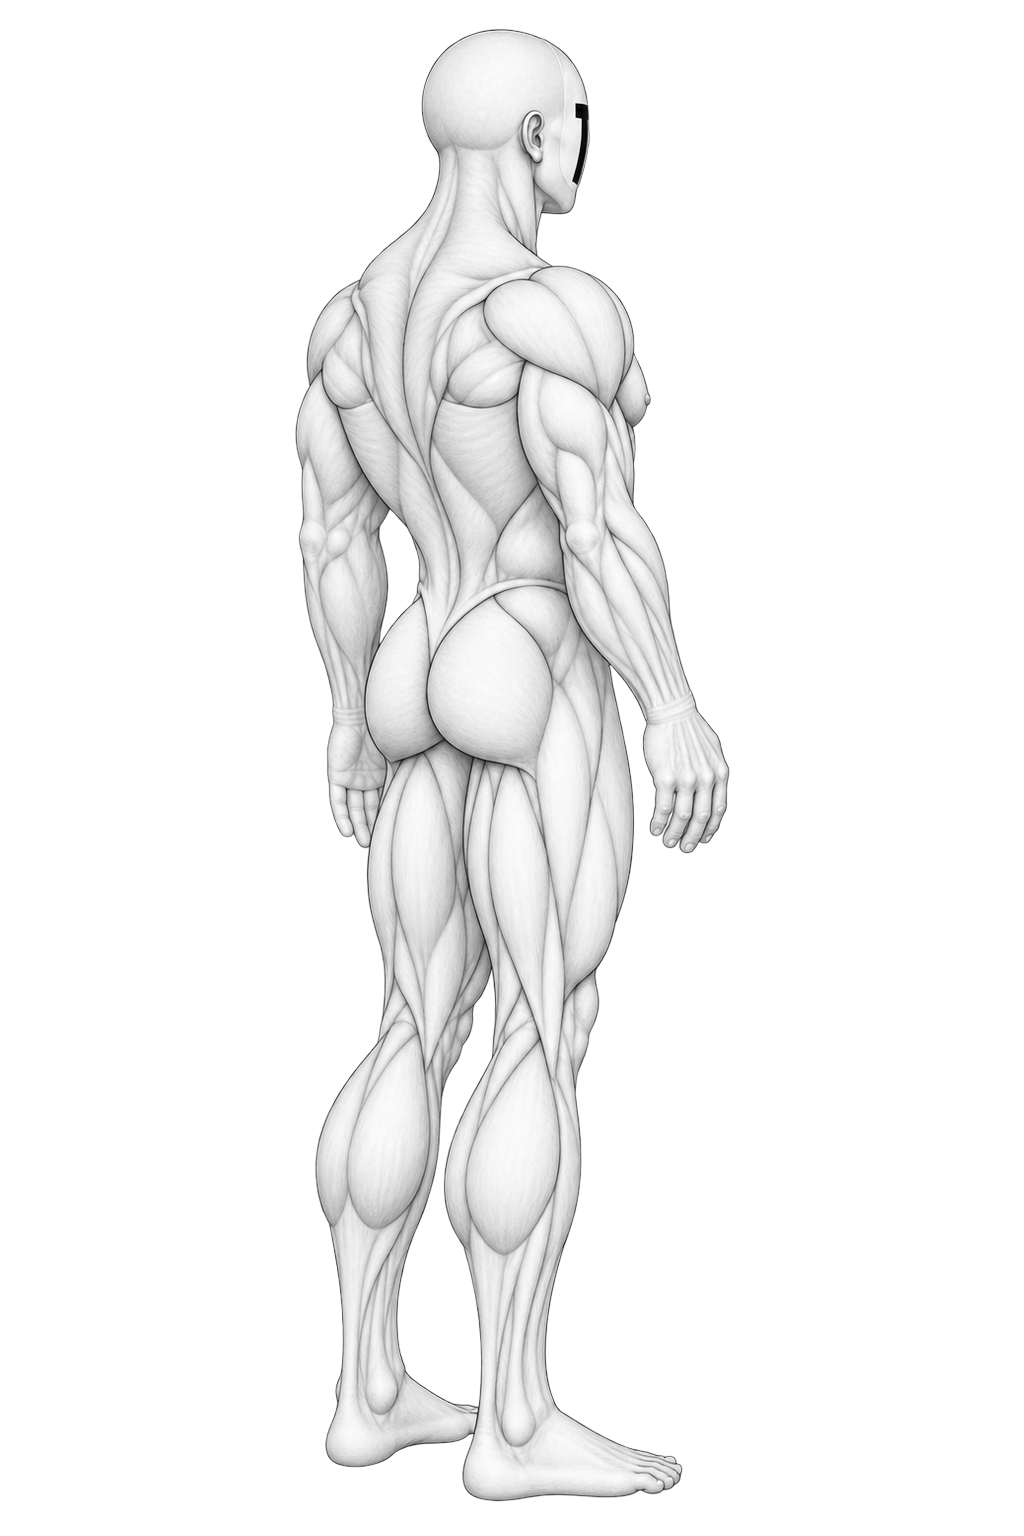
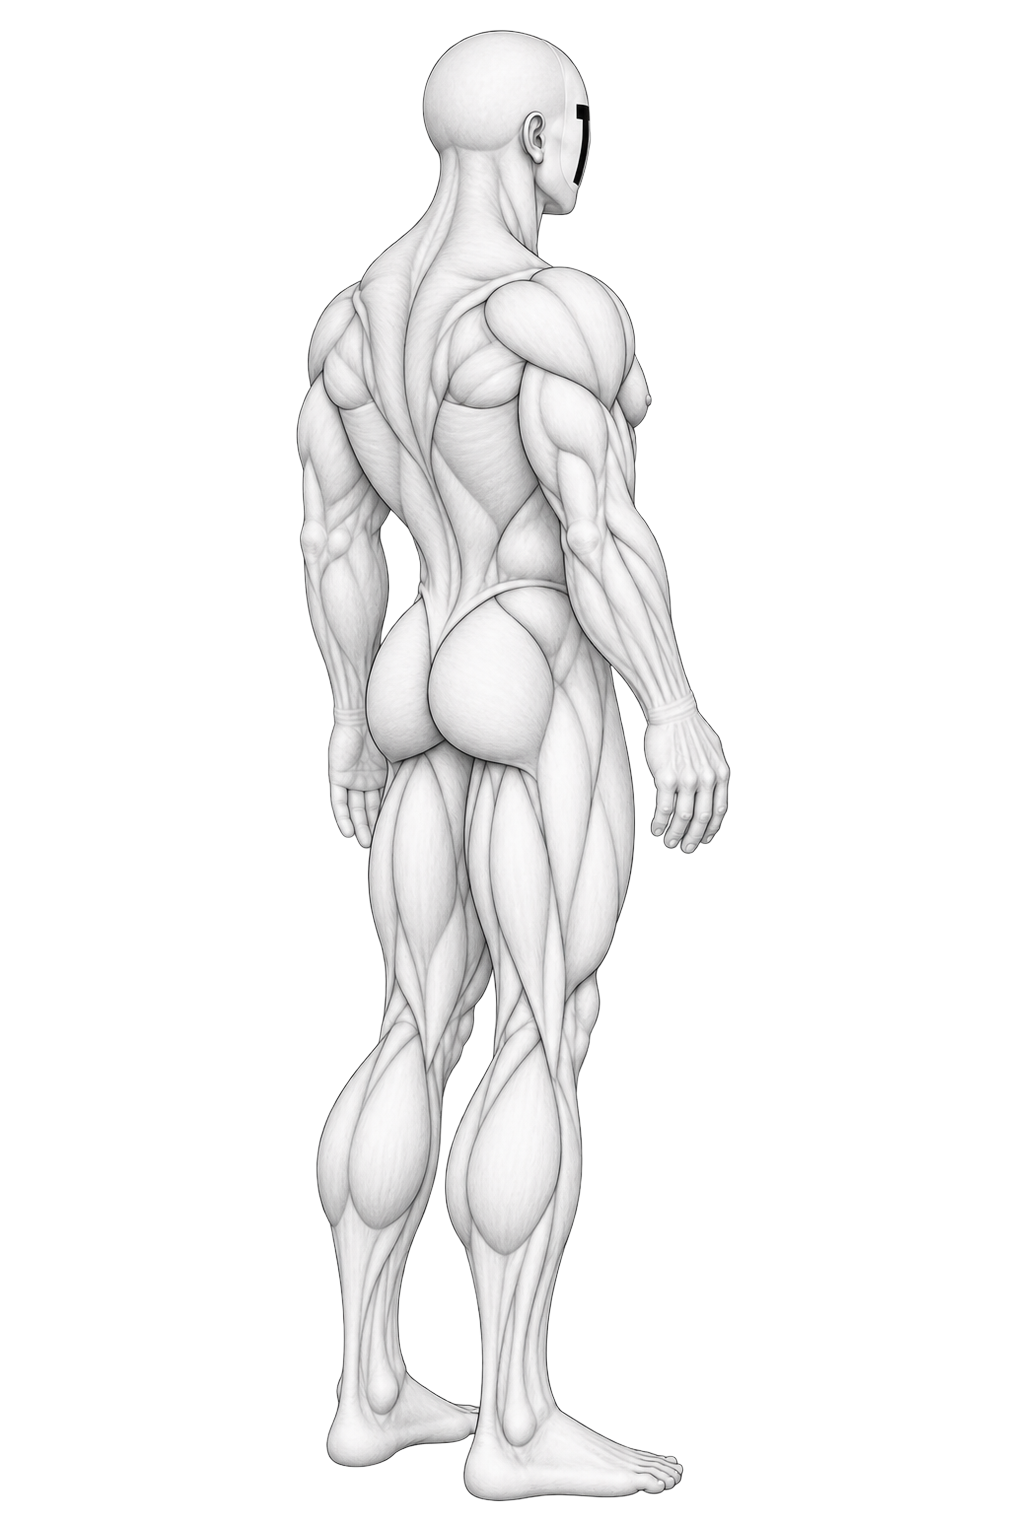
360도 회전뷰어 후면 프레임 5장 교체 및 14장 체제로 확장 (#479)
기존 10~13번(4장)을 새로 받은 5장으로 교체해 13장 → 14장으로 확장.
정면(01~09번)은 그대로 두고, 새 5장은 기존 프레임들과 동일한 기법으로
알파 바운딩박스를 기준(01.png)에 맞춰 스케일/위치 정규화해서 회전 중
몸 크기가 튀지 않도록 함. 핑퐁+미러 로직은 프레임 수(n)에 따라 자동
계산되므로 MUSCLE_ROTATE_FRAME_COUNT만 14로 갱신.

diff --git a/index.html b/index.html
@@ -10328,7 +10328,7 @@ const settingsHeaderName = document.getElementById("settingsHeaderName");
 const settingsHeaderSub = document.getElementById("settingsHeaderSub");
 
 /* ✅ 앱 버전 정의 — 의미 있는 수정/배포마다 올림(설정 화면에서 "최신 버전 받았는지" 확인용) */
-const APP_VERSION = "0.8.98";
+const APP_VERSION = "0.8.99";
 const appVersionDisplay = document.getElementById("appVersionDisplay");
 if (appVersionDisplay) {
   appVersionDisplay.textContent = APP_VERSION;
@@ -13095,10 +13095,10 @@ renderMuscleSubparts(muscleFinderActivePart); // 🔥 초기엔 선택된 부위
 refreshMuscleFinderView(); // 🔥 초기 이미지/오버레이 상태도 위와 동일한 로직으로 결정 — 선택된 부위가 없으므로 기본 인체 이미지 + 선/점/콜아웃으로 시작
 
 /* ===============================
-   🔥 인체 360도 회전 보기 — 정면~후면 반바퀴(13장)를 좌우 드래그로 넘기며
+   🔥 인체 360도 회전 보기 — 정면~후면 반바퀴(14장)를 좌우 드래그로 넘기며
    실제 360도 회전처럼 보이게 하는 화면. 근육부위 화면의 원형 버튼으로 진입.
 ================================ */
-const MUSCLE_ROTATE_FRAME_COUNT = 13;
+const MUSCLE_ROTATE_FRAME_COUNT = 14;
 function muscleRotateFrameSrc(i){
   // 🔥 다른 근육 이미지들과 동일하게 ?v=APP_VERSION 캐시버스팅 적용
   return `icons/muscle/rotate/${String(i + 1).padStart(2, "0")}.png?v=${APP_VERSION}`;
@@ -13115,12 +13115,12 @@ let muscleRotateDragStartIndex = 0;
 let muscleRotateDragging = false;
 const MUSCLE_ROTATE_PX_PER_FRAME = 14; // 🔥 이 픽셀만큼 드래그해야 프레임 1장 넘어감(작을수록 민감)
 
-// 🔥 반바퀴(13장, 정면→오른쪽 옆면 경유→후면)만 있으므로, 후면(12)을 지난 뒤엔
+// 🔥 반바퀴(14장, 정면→오른쪽 옆면 경유→후면)만 있으므로, 후면(13)을 지난 뒤엔
 // 같은 프레임들을 좌우 반전(scaleX(-1))해서 이어 재생 — 몸이 좌우 대칭이라
 // 후면부터는 "왼쪽 옆면을 거쳐 다시 정면으로" 도는 것처럼 자연스럽게 보이고,
 // 이전처럼 후면에서 되감기(반대로 되돌아가는 것처럼 보이는) 느낌 없이 계속
-// 같은 방향으로 도는 진짜 360도 회전 착시가 됨. 예: N=13이면 인덱스 순서는
-// 0,1,...,12,(반전)11,...,1,0,1,... 로 끝없이 반복.
+// 같은 방향으로 도는 진짜 360도 회전 착시가 됨. 예: N=14면 인덱스 순서는
+// 0,1,...,13,(반전)12,...,1,0,1,... 로 끝없이 반복.
 function muscleRotateGetFrame(continuousIndex, n){
   const period = 2 * (n - 1);
   let m = Math.round(continuousIndex) % period;
